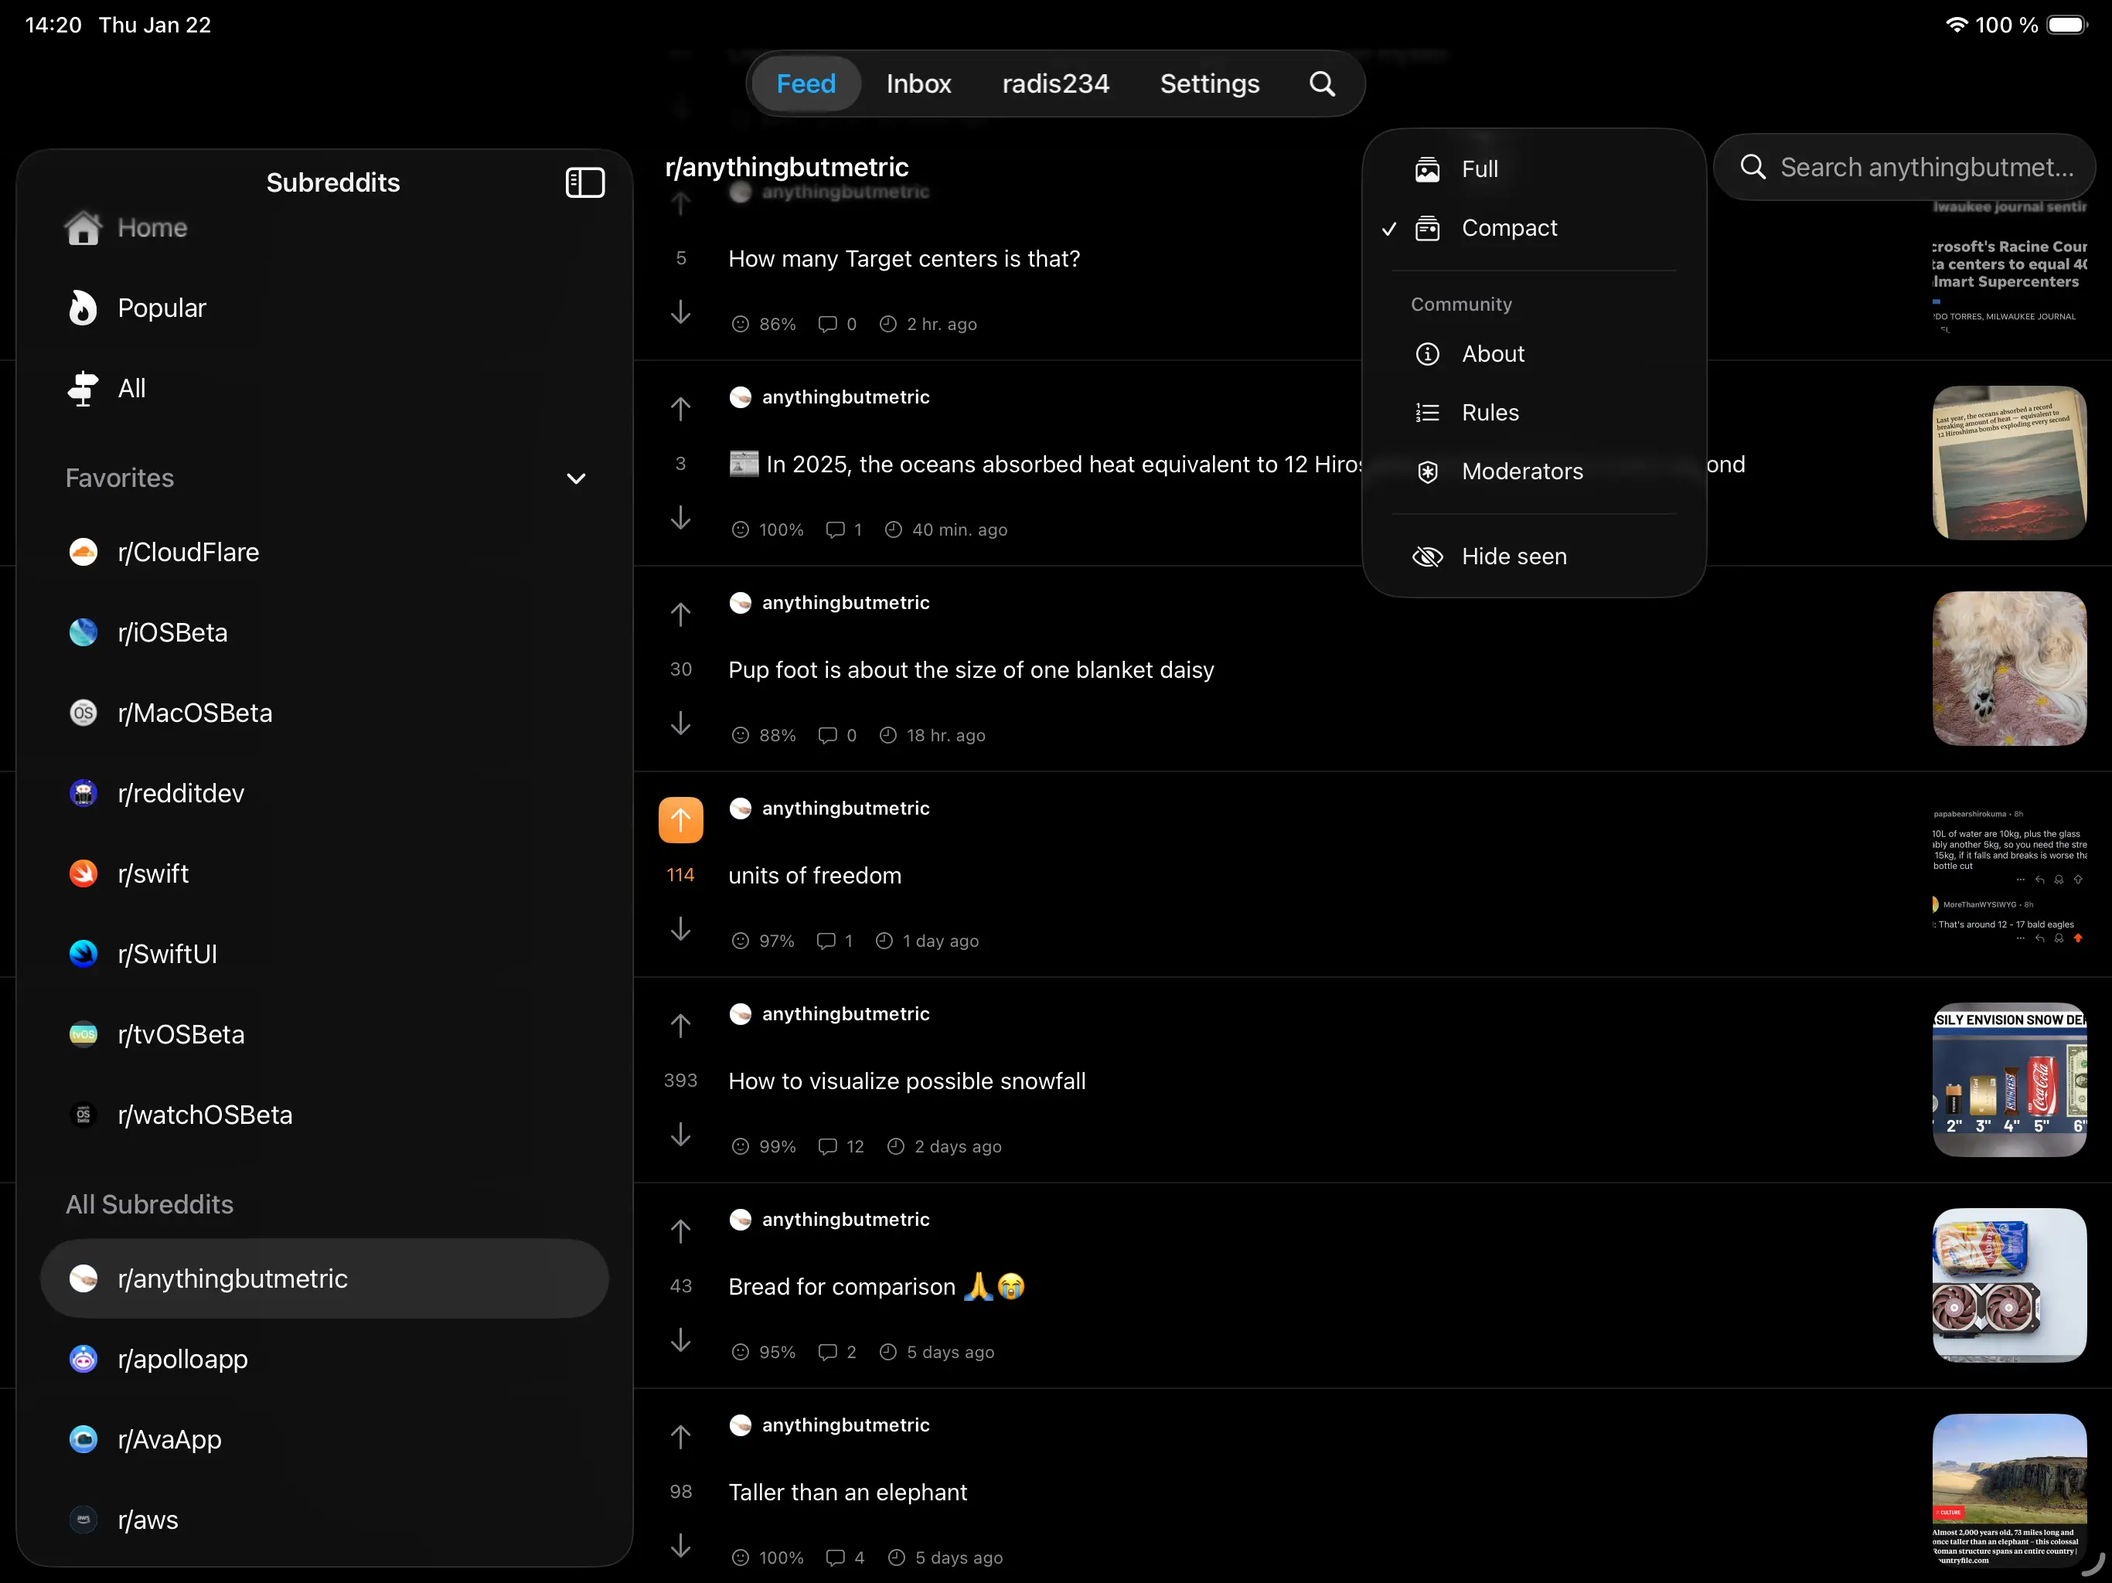
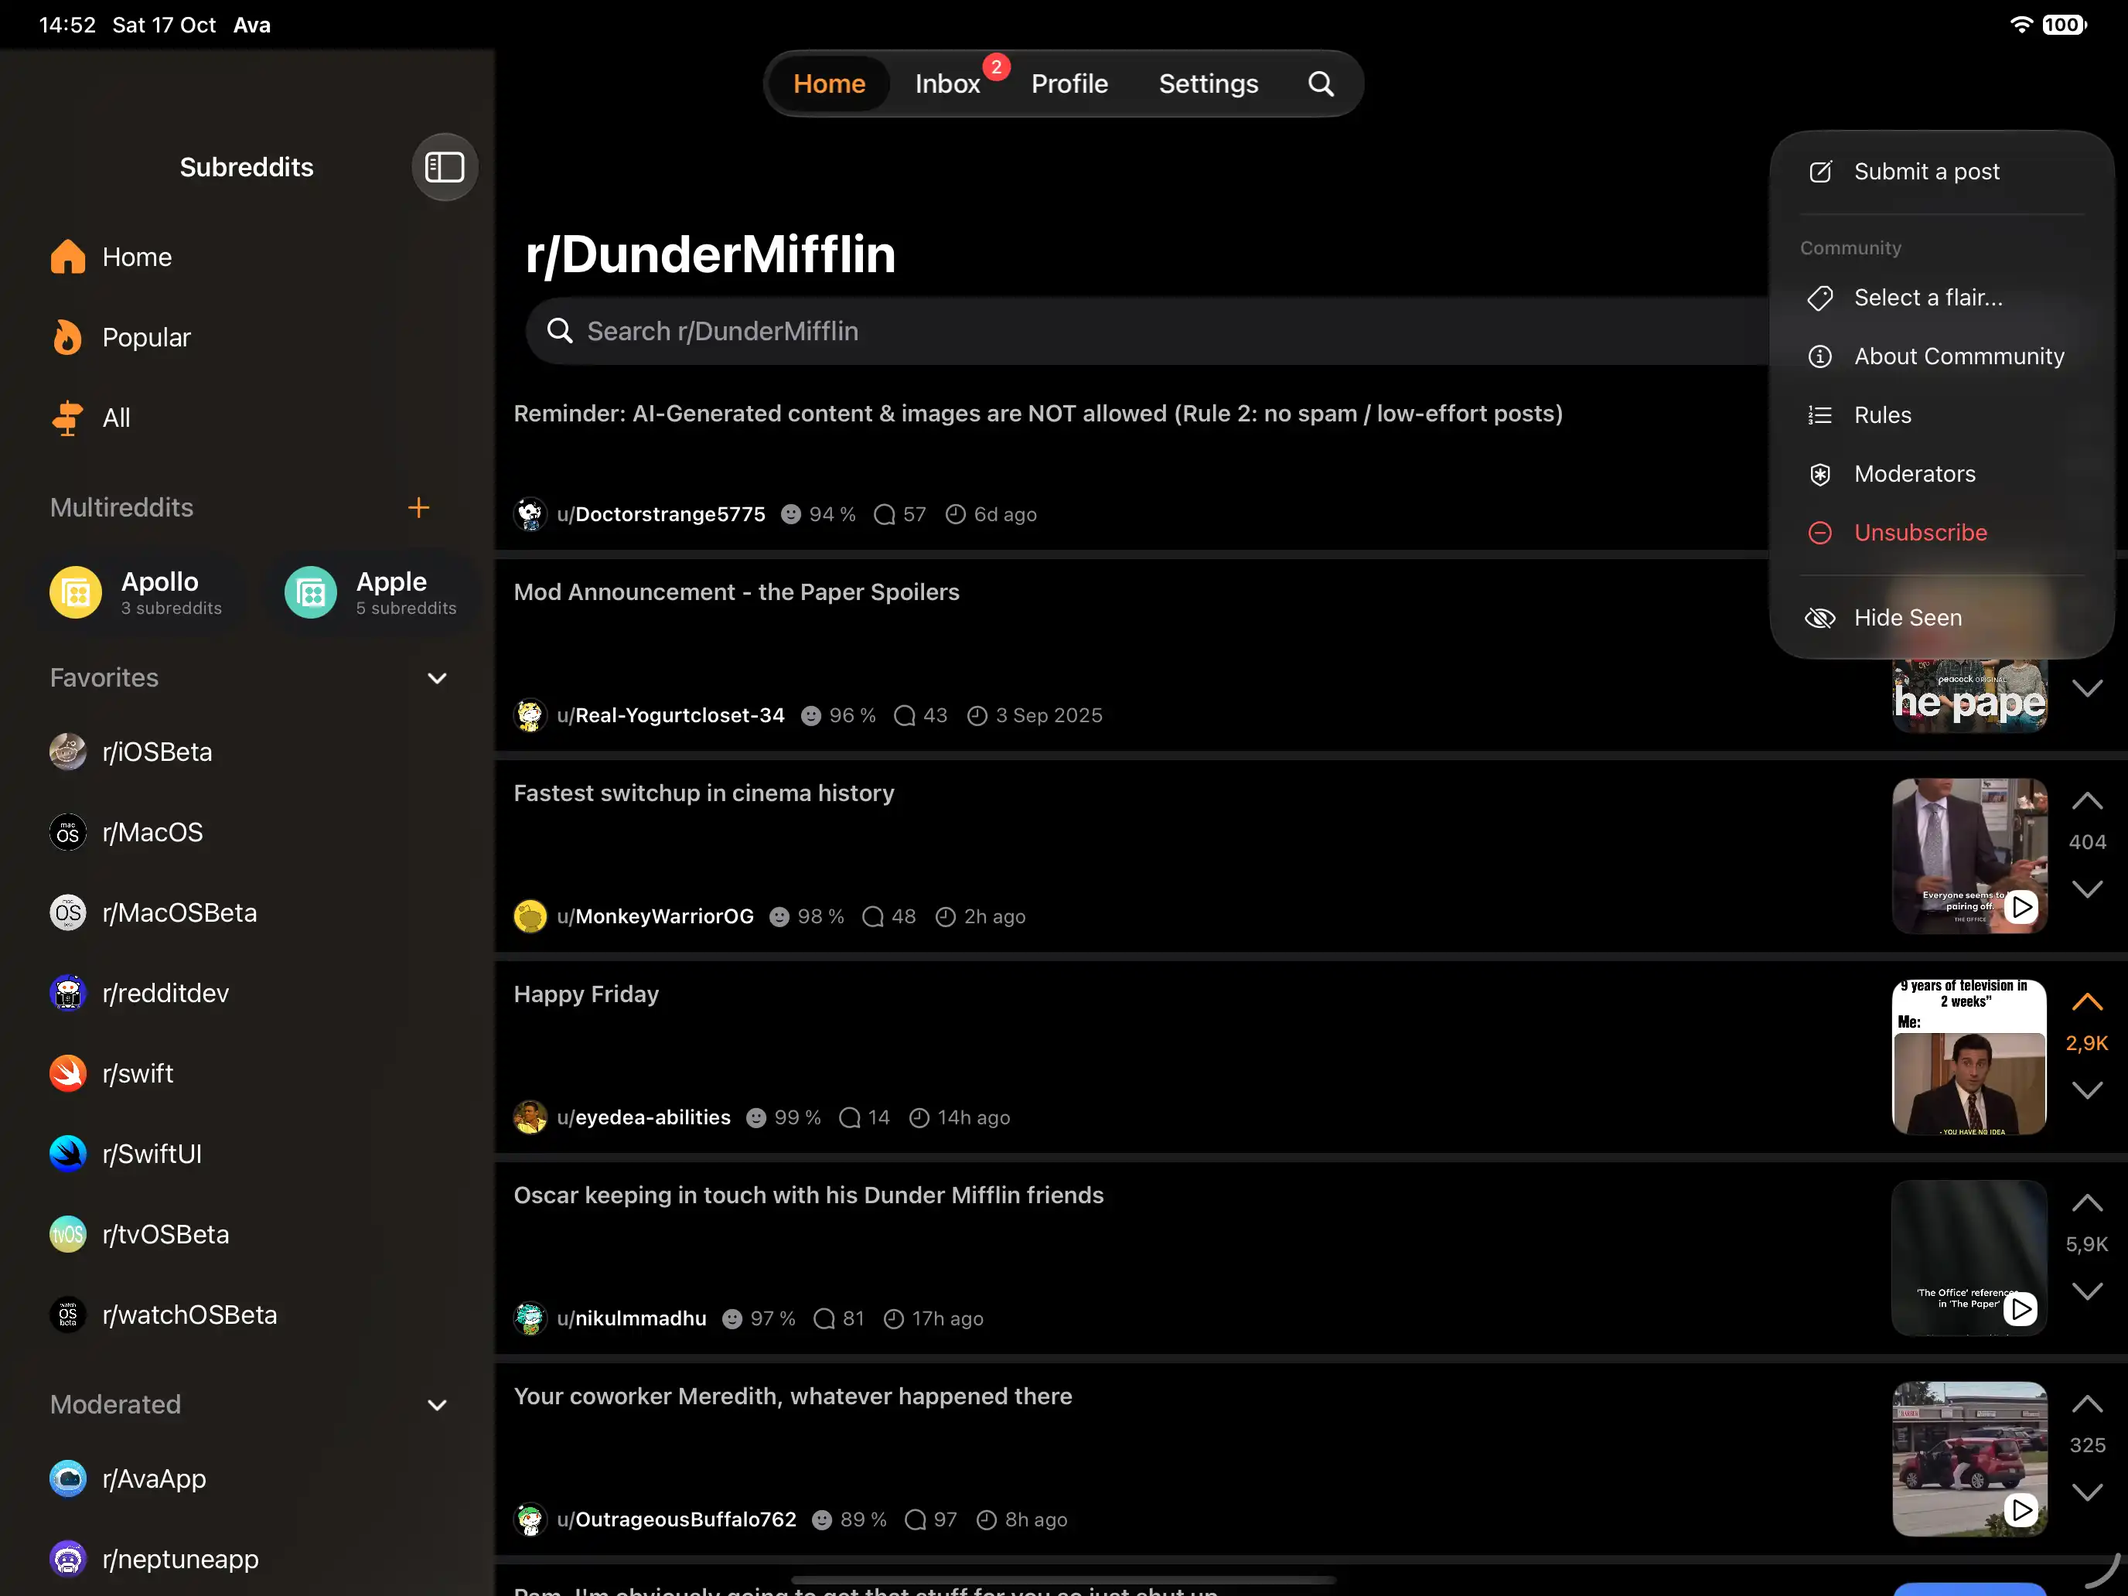
feat: update with latest screenshots, add duo section, improve texts and styles, add discord button to navbar

diff --git a/app/[locale]/page.tsx b/app/[locale]/page.tsx
@@ -22,10 +22,20 @@ import FeatureBlock2 from "@/components/FeatureBlock2";
 import iconDark from "@/public/icon-dark.png";
 import iconLight from "@/public/icon-light.png";
 import FeatureBlock3 from "@/components/FeatureBlock3";
+import testflightButtonSymbol from "@/public/fan.svg";
+import Divider from "@/components/Divider";
+import FeatureBlock4 from "@/components/FeatureBlock4";
+
+// Localization import
+import en from "@/localizations/en.json";
 
 export default function Home() {
   // Translations
   const t = useTranslations("homepage");
+
+  const keys = Object.keys(t.raw("disclaimers")) as Array<
+    keyof typeof en.homepage.disclaimers
+  >;
 
   // Headers
   const headers = [
@@ -106,15 +116,29 @@ export default function Home() {
                   {chunks}
                 </span>
               ),
+              dataCollectionLink: (chunks) => (
+                <a href="#dataCollection" className="font-bold underline">
+                  <sup>{chunks}</sup>
+                </a>
+              ),
             })}
           </p>
         </section>
 
         <a
           href="https://testflight.apple.com/join/Ua9VHj99"
-          className="rounded-full border border-sky-500/25 bg-zinc-200/50 px-4 py-2 text-sky-600 transition duration-500 will-change-transform before:absolute before:inset-0 before:z-0 before:rounded-full before:bg-transparent before:shadow-lg before:shadow-sky-600/0 before:transition hover:before:shadow-sky-600/25 motion-safe:hover:-translate-y-1 dark:bg-zinc-900/50 dark:text-sky-400 dark:hover:bg-zinc-900/70 dark:hover:before:shadow-sky-500/20"
+          className="group flex items-center gap-x-2 rounded-full border border-sky-500/25 bg-sky-200 px-4 py-2 text-lg font-medium text-zinc-950 transition duration-500 will-change-transform before:absolute before:inset-0 before:z-0 before:rounded-full before:bg-transparent before:shadow-lg before:shadow-sky-600/0 before:transition before:duration-500 hover:bg-sky-500 hover:text-zinc-50 hover:before:shadow-sky-600/25 motion-safe:hover:-translate-y-1 dark:bg-sky-950 dark:text-zinc-50 dark:hover:bg-sky-600 dark:hover:before:shadow-sky-500/20"
         >
-          Join TestFlight
+          <Image
+            src={testflightButtonSymbol}
+            alt="Ava Icon"
+            preload={true}
+            width={1000}
+            height={1000}
+            sizes="168px"
+            className="aspect-square h-5 w-auto transition duration-500 group-hover:invert dark:invert"
+          />
+          {t("hero.buttonTitle")}
         </a>
 
         {/* Compatibility Cards */}
@@ -139,7 +163,7 @@ export default function Home() {
         </section>
 
         {/* Divider */}
-        <div className="bg-foreground my-16 h-px w-full mask-x-from-0"></div>
+        <Divider />
 
         {/* Features */}
         <section className="relative flex max-w-screen flex-wrap items-center justify-center gap-32">
@@ -147,11 +171,12 @@ export default function Home() {
 
           <FeatureBlock1 />
           <FeatureBlock2 />
+          <FeatureBlock4 />
           <FeatureBlock3 />
         </section>
 
         {/* Divider */}
-        <div className="bg-foreground my-16 h-px w-full mask-x-from-0"></div>
+        <Divider />
 
         <section className="flex flex-col gap-12">
           {/* Notice */}
@@ -187,6 +212,38 @@ export default function Home() {
               />
             ))}
           </div>
+        </section>
+
+        {/* Divider */}
+        <Divider />
+
+        {/* Disclaimer */}
+        <section className="mx-auto flex w-full max-w-3xl flex-col justify-start gap-4">
+          {keys.map((key) => (
+            <p
+              id={key}
+              key={key}
+              className="text-xs text-pretty text-zinc-600 dark:text-zinc-400"
+            >
+              {t.rich(`disclaimers.${key}`, {
+                highlighted: (chunks) => (
+                  <span className="font-medium text-zinc-950 dark:text-zinc-50">
+                    {chunks}
+                  </span>
+                ),
+                policy: (chunks) => (
+                  // eslint-disable-next-line @next/next/no-html-link-for-pages
+                  <a
+                    href="/privacy"
+                    className="font-bold underline hover:text-orange-600 dark:hover:text-orange-500"
+                  >
+                    {chunks}
+                  </a>
+                ),
+                sup: (chunks) => <sup>{chunks}</sup>,
+              })}
+            </p>
+          ))}
         </section>
       </main>
     </div>

diff --git a/components/FeatureBlock2.tsx b/components/FeatureBlock2.tsx
@@ -2,6 +2,7 @@ import Image from "next/image";
 
 // Media Import
 import bezel from "@/public/bezel-portrait.png";
+import screen from "@/public/comments-screen.webp"
 import { useTranslations } from "next-intl";
 
 export default function FeatureBlock2() {
@@ -13,7 +14,7 @@ export default function FeatureBlock2() {
         <h2 className="text-3xl font-semibold tracking-tight">
           {t("headline")}
         </h2>
-        <p className="leading-8 text-zinc-600 dark:text-zinc-400">
+        <p className="max-w-sm leading-8 text-zinc-600 dark:text-zinc-400">
           {t.rich("description", {
             highlighted: (chunks) => (
               <span className="font-medium text-zinc-950 dark:text-zinc-50">
@@ -21,6 +22,11 @@ export default function FeatureBlock2() {
               </span>
             ),
             br: () => <br></br>,
+            modelAvailabilityLink: (chunks) => (
+              <a href="#modelAvailability" className="font-bold underline">
+                <sup>{chunks}</sup>
+              </a>
+            ),
           })}
         </p>
       </div>
@@ -36,14 +42,15 @@ export default function FeatureBlock2() {
           className="z-10 h-[80vh] max-h-200 w-auto"
         />
         <div className="absolute top-1/2 left-1/2 z-0 aspect-9/16 h-[96%] w-[90%] -translate-1/2 overflow-hidden rounded-[6%]">
-          <video
-            src="/ava-showcase720.webm"
-            autoPlay
-            loop
-            muted
-            playsInline
-            className="h-full w-full object-cover"
-          ></video>
+          <Image
+            loading="lazy"
+            src={screen}
+            alt=""
+            width={1320}
+            height={2868}
+            sizes="(max-width: 640px) 100vw, 565px"
+            className="z-0"
+          />
         </div>
       </div>
     </div>

diff --git a/components/FeatureBlock1.tsx b/components/FeatureBlock1.tsx
@@ -2,18 +2,19 @@ import Image from "next/image";
 
 // Media Import
 import bezel from "@/public/bezel-portrait.png";
+import screen from "@/public/feed-screen.webp"
 import { useTranslations } from "next-intl";
 
 export default function FeatureBlock1() {
   const t = useTranslations("homepage.features.feature1");
 
   return (
-    <div className="grid grid-cols-1 place-items-center gap-y-12 text-center sm:grid-cols-2 sm:text-left">
+    <div className="grid w-full grid-cols-1 place-items-center gap-y-12 text-center sm:grid-cols-2 sm:text-left">
       <div className="order-1 flex flex-col gap-10">
         <h2 className="text-3xl font-semibold tracking-tight">
           {t("headline")}
         </h2>
-        <p className="leading-8 text-zinc-600 dark:text-zinc-400">
+        <p className="max-w-sm leading-8 text-zinc-600 dark:text-zinc-400">
           {t.rich("description", {
             highlighted: (chunks) => (
               <span className="font-medium text-zinc-950 dark:text-zinc-50">
@@ -36,14 +37,15 @@ export default function FeatureBlock1() {
           className="z-10 h-[80vh] max-h-200 w-auto"
         />
         <div className="absolute top-1/2 left-1/2 z-0 aspect-9/16 h-[96%] w-[90%] -translate-1/2 overflow-hidden rounded-[6%]">
-          <video
-            src="/ava-customization720.webm"
-            autoPlay
-            loop
-            muted
-            playsInline
-            className="h-full w-full object-cover"
-          ></video>
+          <Image
+            loading="lazy"
+            src={screen}
+            alt=""
+            width={1320}
+            height={2868}
+            sizes="(max-width: 640px) 100vw, 565px"
+            className="z-0"
+          />
         </div>
       </div>
     </div>

diff --git a/components/Navbar.tsx b/components/Navbar.tsx
@@ -3,6 +3,7 @@ import { useTranslations } from "next-intl";
 
 // Images Imports
 import rbLogo from "@/public/monogram-dark.svg";
+import discordLogo from "@/public/discord.svg";
 
 export default function Navbar() {
   const t = useTranslations("homepage");
@@ -25,8 +26,23 @@ export default function Navbar() {
         </a>
 
         <div className="flex items-center gap-3">
+          <a
+            href="https://discord.gg/Yh3E2YYrKu"
+            title="Join Ava on Discord"
+            className="mx-2 hover:opacity-75 md:mx-5"
+          >
+            <Image
+              priority={true}
+              src={discordLogo}
+              alt="Discord Logo"
+              width={126.644}
+              height={96}
+              sizes="126px"
+              className="aspect-auto h-4 w-auto dark:invert"
+            />
+          </a>
           <div className="relative h-1.5 w-1.5 rounded-full bg-green-600">
-            <div className="animate-duration-2500! absolute top-1/2 left-1/2 h-2.5 w-2.5 -translate-x-1/2 -translate-y-1/2 rounded-full bg-green-600 motion-safe:animate-ping"></div>
+            <div className="motion-safe:animate-flicker absolute top-1/2 left-1/2 h-2.5 w-2.5 -translate-x-1/2 -translate-y-1/2 rounded-full bg-green-600 blur-sm"></div>
           </div>
           <p className="dark:zinc-400 text-sm text-zinc-600">
             {t("navbar.inDev")}

diff --git a/components/FeatureBlock4.tsx b/components/FeatureBlock4.tsx
@@ -1,0 +1,41 @@
+import Image from "next/image";
+
+// Media Import
+import image from "@/public/duo-promo.webp";
+import { useTranslations } from "next-intl";
+
+export default function FeatureBlock4() {
+  const t = useTranslations("homepage.features.feature4");
+
+  return (
+    <div className="grid w-full grid-cols-1 place-items-center gap-y-12 text-center sm:grid-cols-2 sm:text-left">
+      <div className="order-1 flex flex-col gap-10">
+        <h2 className="text-3xl font-semibold tracking-tight">
+          {t("headline")}
+        </h2>
+        <p className="max-w-sm leading-8 text-zinc-600 dark:text-zinc-400">
+          {t.rich("description", {
+            highlighted: (chunks) => (
+              <span className="font-medium text-zinc-950 dark:text-zinc-50">
+                {chunks}
+              </span>
+            ),
+            br: () => <br></br>,
+          })}
+        </p>
+      </div>
+
+      <div className="relative isolate order-2 flex drop-shadow-2xl">
+        <Image
+          loading="lazy"
+          src={image}
+          alt="iPhone Duo Promo Image"
+          width={2391}
+          height={1901}
+          sizes="(max-width: 640px) 100vw, 565px"
+          className="z-10 h-auto max-h-200 w-auto"
+        />
+      </div>
+    </div>
+  );
+}

diff --git a/app/[locale]/release-notes/page.tsx b/app/[locale]/release-notes/page.tsx
@@ -6,7 +6,7 @@ import remarkGfm from "remark-gfm";
 export default function Page() {
   const t = useTranslations("releaseNotes");
   return (
-    <div className="mx-auto max-w-6xl p-10">
+    <div className="mx-auto safe-inset-container max-w-6xl p-10">
       <h1 className="text-3xl font-bold md:text-4xl">{t("header")}</h1>
 
       <div className="bg-foreground my-12 h-px w-full mask-x-from-0 sm:my-16"></div>
@@ -14,7 +14,7 @@ export default function Page() {
       {Object.entries(releaseNotes).map(
         ([version, changelog], index, entries) => (
           <div key={version}>
-            <div className="grid grid-cols-1 gap-y-6 md:grid-cols-[200px_minmax(900px,1fr)_100px]">
+            <div className="grid grid-cols-1 gap-y-6 md:grid-cols-[200px_minmax(0,1fr)]">
               <h2 className="text-2xl md:text-2xl">{version}</h2>
 
               <article key={version} className="prose dark:prose-invert">

diff --git a/components/FeatureBlock3.tsx b/components/FeatureBlock3.tsx
@@ -11,7 +11,7 @@
 import Image from "next/image";
 
 // Media Import
-import bezel from "@/public/ipad-bezel.png";
+import bezel from "@/public/ipad-bezel.webp";
 import screen from "@/public/ipadscreen.webp";
 import { useTranslations } from "next-intl";
 
@@ -24,7 +24,7 @@ export default function FeatureBlock3() {
         <h2 className="text-3xl font-semibold tracking-tight">
           {t("headline")}
         </h2>
-        <p className="leading-8 text-zinc-600 dark:text-zinc-400">
+        <p className="max-w-xl leading-8 text-zinc-600 dark:text-zinc-400">
           {t.rich("description", {
             highlighted: (chunks) => (
               <span className="font-medium text-zinc-950 dark:text-zinc-50">

diff --git a/app/[locale]/privacy/page.tsx b/app/[locale]/privacy/page.tsx
@@ -4,7 +4,7 @@ import remarkGfm from "remark-gfm";
 
 export default async function Page() {
   return (
-    <article className="prose dark:prose-invert mx-auto max-w-6xl p-10">
+    <article className="prose safe-inset-container dark:prose-invert mx-auto max-w-6xl py-10">
       <ReactMarkdown
         remarkPlugins={[remarkGfm]}
         components={{

diff --git a/app/globals.css b/app/globals.css
@@ -43,6 +43,11 @@ nav {
   padding-left: calc(env(safe-area-inset-left) + 1rem);
 }
 
+.safe-inset-container {
+    padding-right: calc(env(safe-area-inset-right) + 1rem);
+    padding-left: calc(env(safe-area-inset-left) + 1rem);
+}
+
 @keyframes flicker {
   0%,
   19%,

diff --git a/components/Divider.tsx b/components/Divider.tsx
@@ -1,0 +1,3 @@
+export default function Divider() {
+  return <div className="bg-foreground my-16 h-px w-full mask-x-from-0"></div>;
+}
